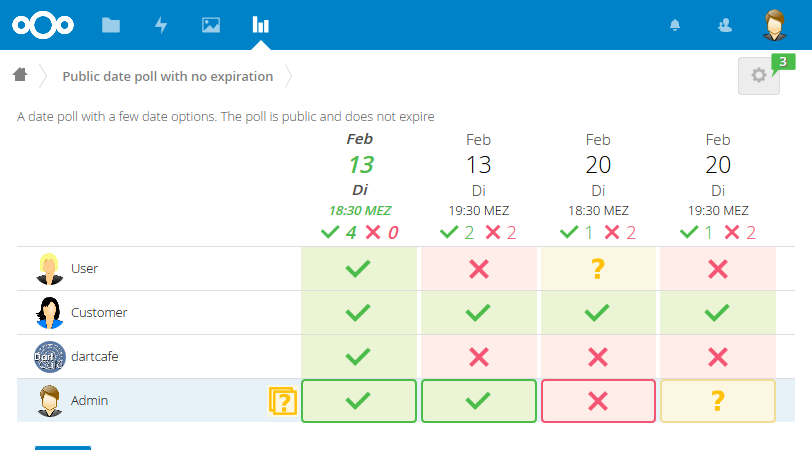
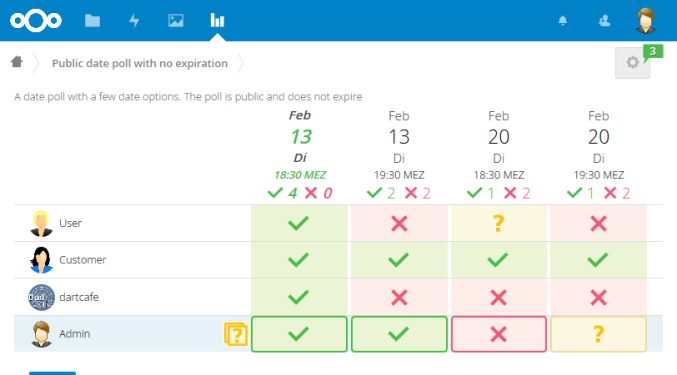
Updated readme and resized screenshots

diff --git a/README.md b/README.md
@@ -18,14 +18,19 @@ It is a rework of the already existing [polls app](https://github.com/raduvatav/
 - https://github.com/nextcloud/polls/issues
 
 ### Screenshots
+Overview of all polls
 ![Overview](https://github.com/nextcloud/polls/blob/master/screenshots/overview.png)
 
+The vote page
 ![Vote](https://github.com/nextcloud/polls/blob/master/screenshots/vote.png)
 
+Creating a new poll
 ![New poll](https://github.com/nextcloud/polls/blob/master/screenshots/edit-poll.png)
 
+View the vote page on mobiles
 ![Vote mobile portrait](https://github.com/nextcloud/polls/blob/master/screenshots/vote-mobile-portrait.png)
 
+Turn phone to landscape to see details
 ![Vote mobile landscape](https://github.com/nextcloud/polls/blob/master/screenshots/vote-mobile-landscape.png)
 
 ## Installation / Update
